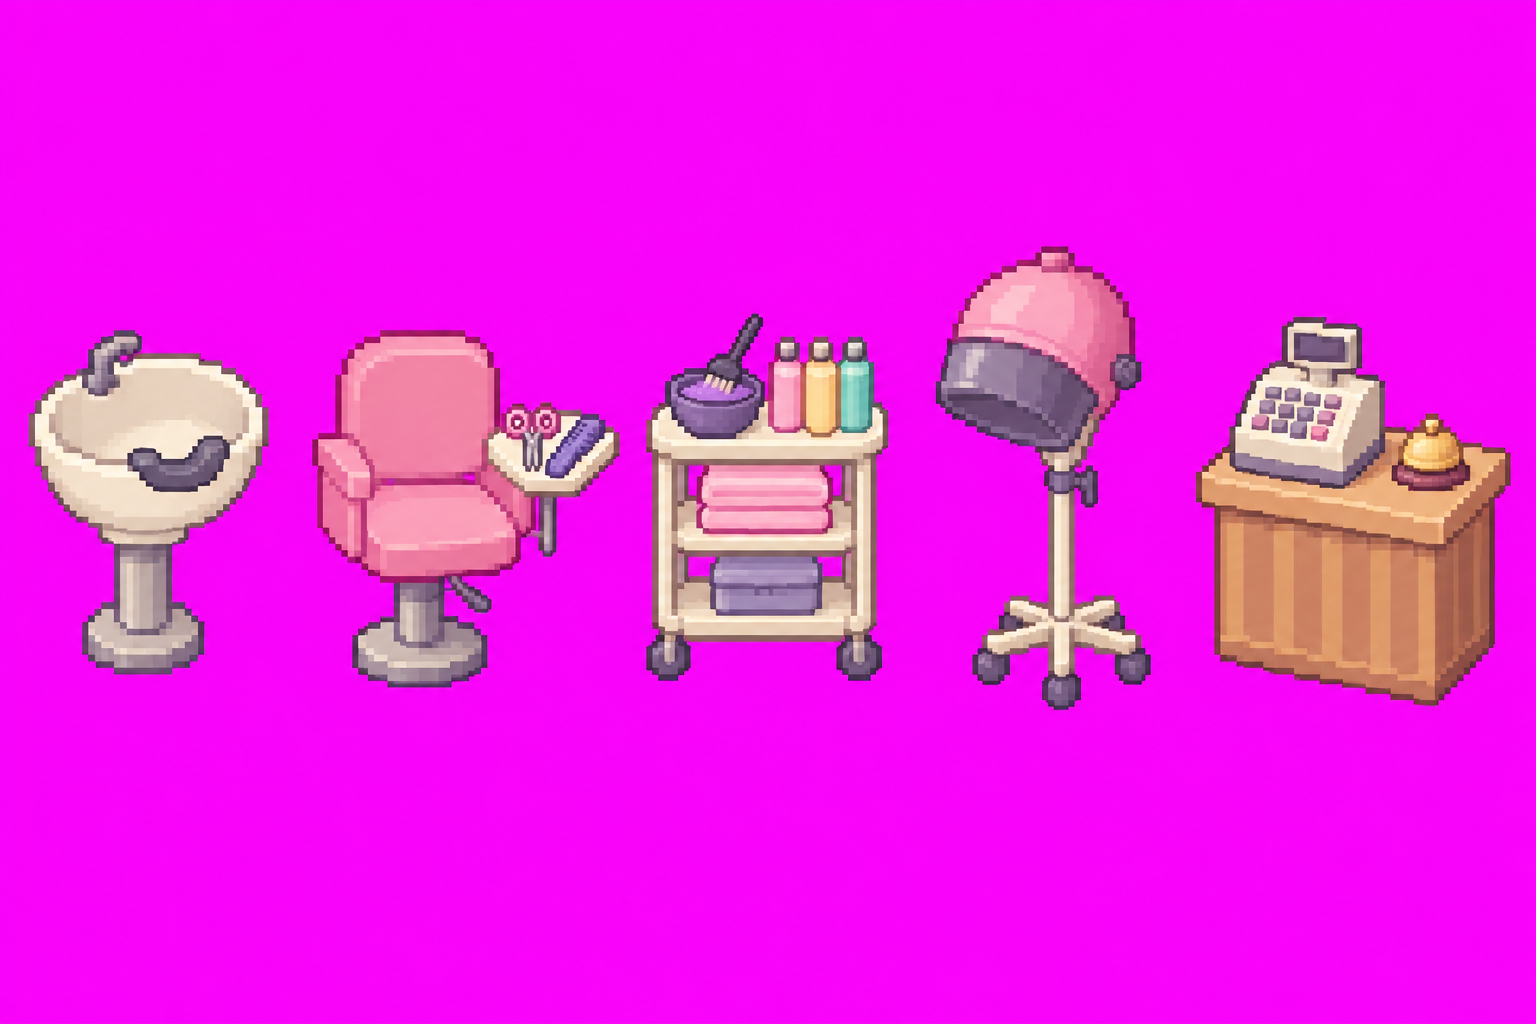
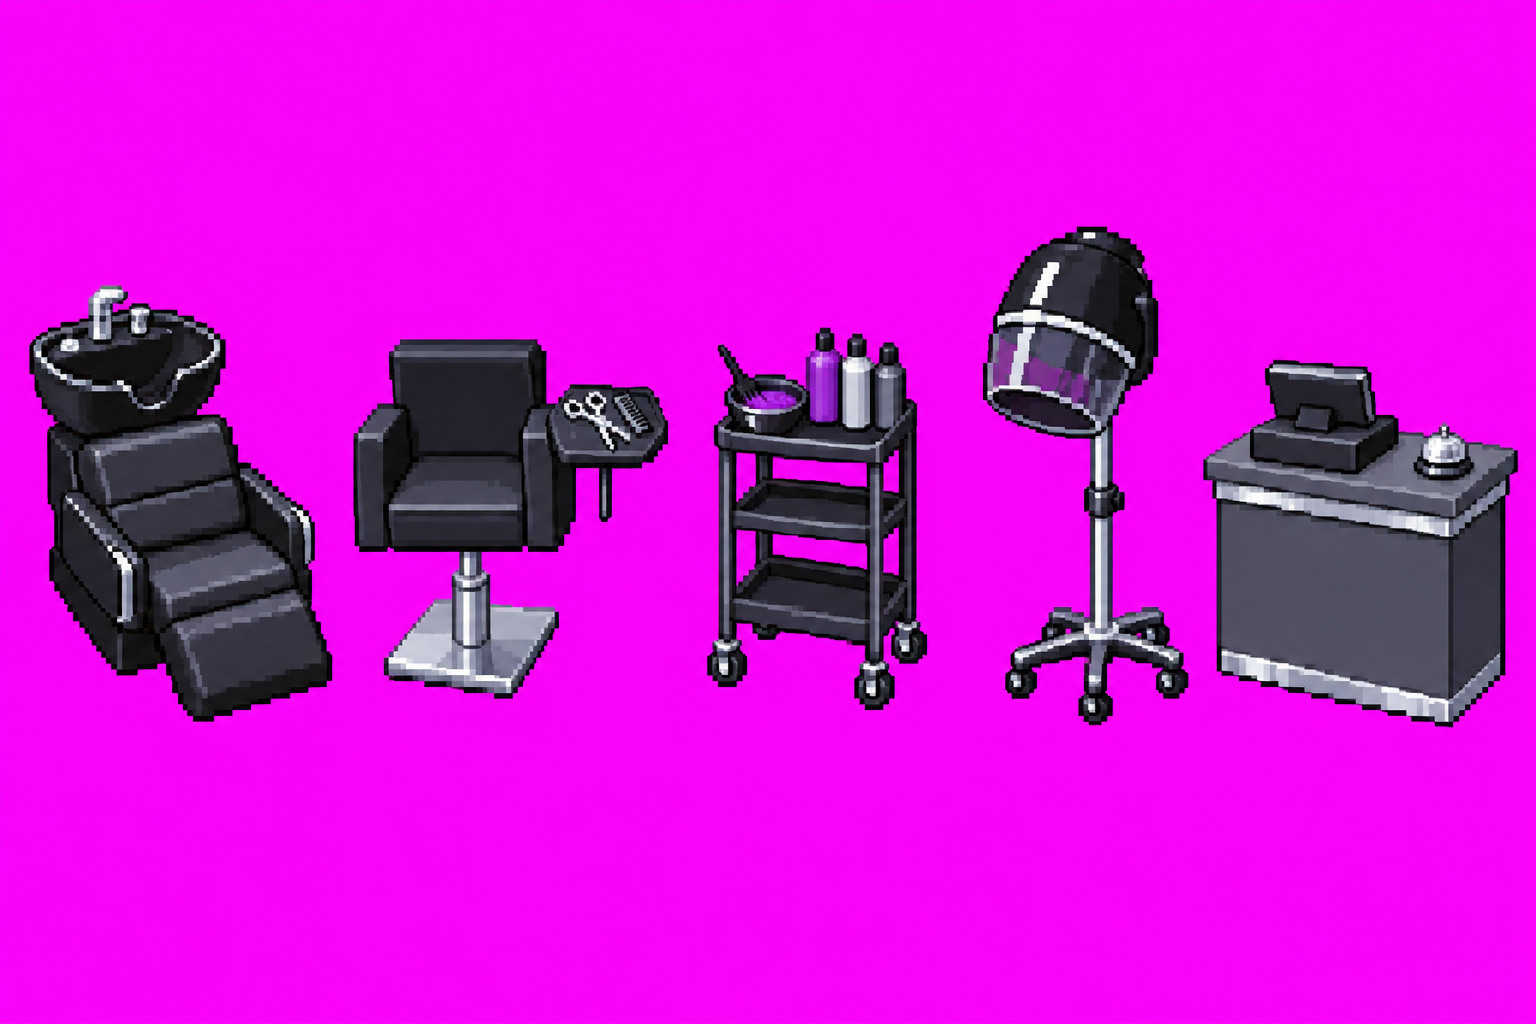
The salon as it really looks
S5 (inside the salon) and P9 (its work places) are redrawn through
Figma after a photo of the real salon: dark charcoal plaster walls,
two tall mirrors in thick polished chrome frames, square black leather
chairs on chrome bases, grey stone floor tiles; a black wash unit,
chair, dye trolley, hood dryer and a charcoal counter with the till.
The first versions are kept in art/source/old.

Claude-Session: https://claude.ai/code/session_01VNRPapRapxGDERJvDFS1Be

Changed region(s): [[0.0, 0.2188, 1.0, 0.7188]]

diff --git a/docs/v2/assets/sprites.js b/docs/v2/assets/sprites.js
@@ -659,8 +659,8 @@ window.SPRITES = {
   },
   "stations": {
     "file": "stations.png",
-    "w": 48,
-    "h": 71,
+    "w": 53,
+    "h": 85,
     "scale": 0.5,
     "fps": 1,
     "poses": {

diff --git a/game/assets/sprites.js b/game/assets/sprites.js
@@ -659,8 +659,8 @@ window.SPRITES = {
   },
   "stations": {
     "file": "stations.png",
-    "w": 48,
-    "h": 71,
+    "w": 53,
+    "h": 85,
     "scale": 0.5,
     "fps": 1,
     "poses": {

diff --git a/art/CHATGPT-PACK.md b/art/CHATGPT-PACK.md
@@ -10,6 +10,7 @@ Everything ChatGPT needs to draw the game's scenes and objects so they match you
 - **S15, the bush forest: done**, drawn after your photo of the real bush.
 - **Mamka, Alan, Sami and Žofia: done**, from your new sheets of eight figures each. In the game they stand about a third taller than the kids.
 - **S11, the stadium gate:** redrawn after your photos of the real Strahov stadium from outside.
+- **S5 and P9, the salon:** redrawn after your photo of the real salon: dark plaster walls, tall chrome-framed mirrors, black leather chairs, grey stone tiles.
 - **Still to draw:** P2 (the tram), P4 (rewards and map markers). The villain C11 is optional.
 - **Style:** grounded, classic pixel art that follows your character sheets and the finished scenes: natural proportions, muted colours, no black outlines.
 
